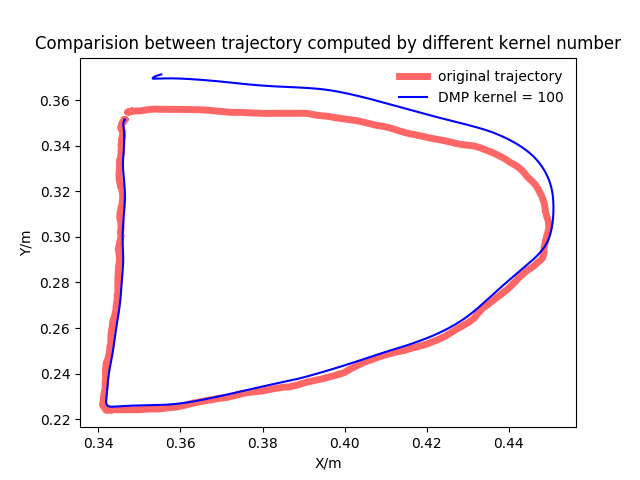
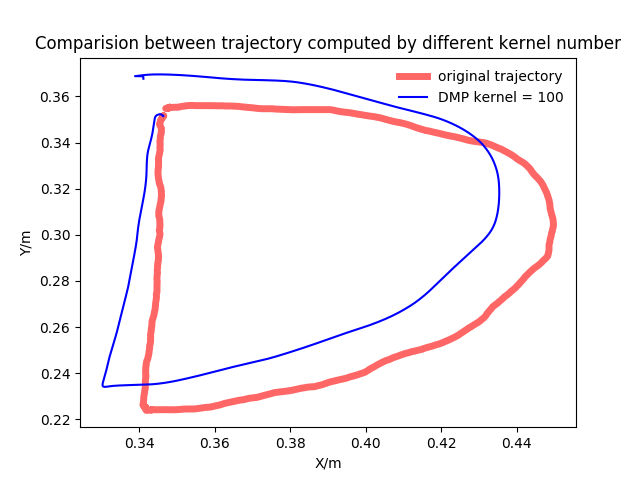
bad point

diff --git a/code/plot.py b/code/plot.py
@@ -1,5 +1,6 @@
 from segmentation import Segmentation
 from dmp_qlwj import DynamicMP
+from dmp_qlwj import Bad_DynamicMP
 
 import numpy as np
 import math
@@ -28,13 +29,22 @@ def get_vel_and_acc(x, freq):
     return vel, acc
 
 # imput the traj, the velocity of this traj and the acceleration , the output is the traj processed by dmp algorithm
-def dmp_process(m, traj, dtraj, ddtraj, shape=0, linear=0):
-    process_x = DynamicMP(m, traj[0], dtraj[0], ddtraj[0], len(traj[0]), shape, linear)
-    xx = process_x.getddy1()
-    process_y = DynamicMP(m, traj[1], dtraj[1], ddtraj[1], len(traj[1]), shape, linear)
-    yy = process_y.getddy1()
-    process_z = DynamicMP(m, traj[2], dtraj[2], ddtraj[2], len(traj[2]), shape, linear)
-    zz = process_z.getddy1()
+def dmp_process(m, traj, dtraj, ddtraj, start_error=0, goal_error=0, dmp_choose=True, shape=0, linear=0):
+
+    if dmp_choose == True:
+        process_x = DynamicMP(m, traj[0], dtraj[0], ddtraj[0], len(traj[0]), shape, linear)
+        xx = process_x.getddy1()
+        process_y = DynamicMP(m, traj[1], dtraj[1], ddtraj[1], len(traj[1]), shape, linear)
+        yy = process_y.getddy1()
+        process_z = DynamicMP(m, traj[2], dtraj[2], ddtraj[2], len(traj[2]), shape, linear)
+        zz = process_z.getddy1()
+    else:
+        process_x = Bad_DynamicMP(m, traj[0], dtraj[0], ddtraj[0], len(traj[0]), start_error, goal_error, shape, linear)
+        xx = process_x.getddy1()
+        process_y = Bad_DynamicMP(m, traj[1], dtraj[1], ddtraj[1], len(traj[1]), start_error, goal_error, shape, linear)
+        yy = process_y.getddy1()
+        process_z = Bad_DynamicMP(m, traj[2], dtraj[2], ddtraj[2], len(traj[2]), start_error, goal_error, shape, linear)
+        zz = process_z.getddy1()
     dmp_traj = [xx, yy, zz]
     return dmp_traj    
 
@@ -136,12 +146,12 @@ class DataPlot:
 
     def paint_paper(self):
         number = np.arange(0, len(self.full_traj[0])).tolist()
-        dmp100 = dmp_process(20, self.full_traj, self.dfull_traj, self.ddfull_traj)
-        dmp300 = dmp_process(50, self.full_traj, self.dfull_traj, self.ddfull_traj)
-        dmp600 = dmp_process(100, self.full_traj, self.dfull_traj, self.ddfull_traj)
-        # dmp1000 = dmp_process(200, full_traj, dfull_traj, ddfull_traj)
-        error1 = [math.sqrt((dmp100[0][i] - self.full_traj[0][i])**2 + (dmp100[2][i] - self.full_traj[2][i])**2) for i in range(len(self.full_traj[0]))]
-        error2 = [math.sqrt((dmp300[0][i] - self.full_traj[0][i])**2 + (dmp300[2][i] - self.full_traj[2][i])**2) for i in range(len(self.full_traj[0]))]
+        # dmp100 = dmp_process(20, self.full_traj, self.dfull_traj, self.ddfull_traj)
+        # dmp300 = dmp_process(50, self.full_traj, self.dfull_traj, self.ddfull_traj)
+        # dmp600 = dmp_process(100, self.full_traj, self.dfull_traj, self.ddfull_traj)
+        dmp600 = dmp_process(100, self.full_traj, self.dfull_traj, self.ddfull_traj, False, 0.01, 0.2)
+        # error1 = [math.sqrt((dmp100[0][i] - self.full_traj[0][i])**2 + (dmp100[2][i] - self.full_traj[2][i])**2) for i in range(len(self.full_traj[0]))]
+        # error2 = [math.sqrt((dmp300[0][i] - self.full_traj[0][i])**2 + (dmp300[2][i] - self.full_traj[2][i])**2) for i in range(len(self.full_traj[0]))]
         error3 = [math.sqrt((dmp600[0][i] - self.full_traj[0][i])**2 + (dmp600[2][i] - self.full_traj[2][i])**2) for i in range(len(self.full_traj[0]))]
         
         plt.figure(1)
@@ -158,8 +168,8 @@ class DataPlot:
         plt.show()
         
         plt.figure(2)
-        plt.plot(number, error1, 'g', label='DMP kernel = 20')
-        plt.plot(number, error2, 'chocolate', label='DMP kernel = 50' )
+        # plt.plot(number, error1, 'g', label='DMP kernel = 20')
+        # plt.plot(number, error2, 'chocolate', label='DMP kernel = 50' )
         plt.plot(number, error3, 'b', label='DMP kernel = 100' )
         plt.xlabel('N')
         plt.ylabel('Euclidean distance/m')

diff --git a/code/dmp_qlwj.py b/code/dmp_qlwj.py
@@ -107,7 +107,7 @@ class Bad_DynamicMP:
     ci = 0
 
 
-    def __init__(self, m, y_all_i, dy_all_i, ddy0_all_i, lenth, shape=0, linear=0):
+    def __init__(self, m, y_all_i, dy_all_i, ddy0_all_i, lenth, start_error, goal_error, shape=0, linear=0):
 
         # self.ci = i/8
         self.m = m
@@ -122,6 +122,8 @@ class Bad_DynamicMP:
         self.Phi = np.zeros((self.lenth, self.lenth), dtype=np.float)
         self.f = np.zeros((self.lenth, 1), dtype=np.float)
         self.w = np.zeros((self.m, 1), dtype=np.float)
+        self.start_error = start_error
+        self.goal_error = goal_error
 
 
     def getX(self):
@@ -176,7 +178,7 @@ class Bad_DynamicMP:
         dy1 = np.zeros((self.lenth, 1), dtype=np.float)
         self.getW()
         ddy1[0] = 0
-        plot_y[0] = self.y[0]
+        plot_y[0] = self.y[0] + self.start_error
         dy1[0] = self.dy[0]
         for i in range(1, self.lenth):
             up = 0
@@ -185,7 +187,7 @@ class Bad_DynamicMP:
                 up += self.w[j]*self.getPhi(self.x[i],(j+1)/self.m)
                 down += self.getPhi(self.x[i],(j+1)/self.m)
             fx = (up/down)*self.x[i]*(self.y[self.lenth-1] - self.y[0])
-            ddy1[i] = (self.alpha*(self.beta* (self.y[self.lenth-1]+0.2*(self.y[self.lenth-1]-self.y[0]) - plot_y[i-1]) - dy1[i-1]) + fx)
+            ddy1[i] = (self.alpha*(self.beta* (self.y[self.lenth-1]+self.goal_error - plot_y[i-1]) - dy1[i-1]) + fx)
             dy1[i] = dy1[i-1] + ddy1[i-1]*self.time_delta
             plot_y[i] = plot_y[i-1] + dy1[i-1]*self.time_delta
         return plot_y
